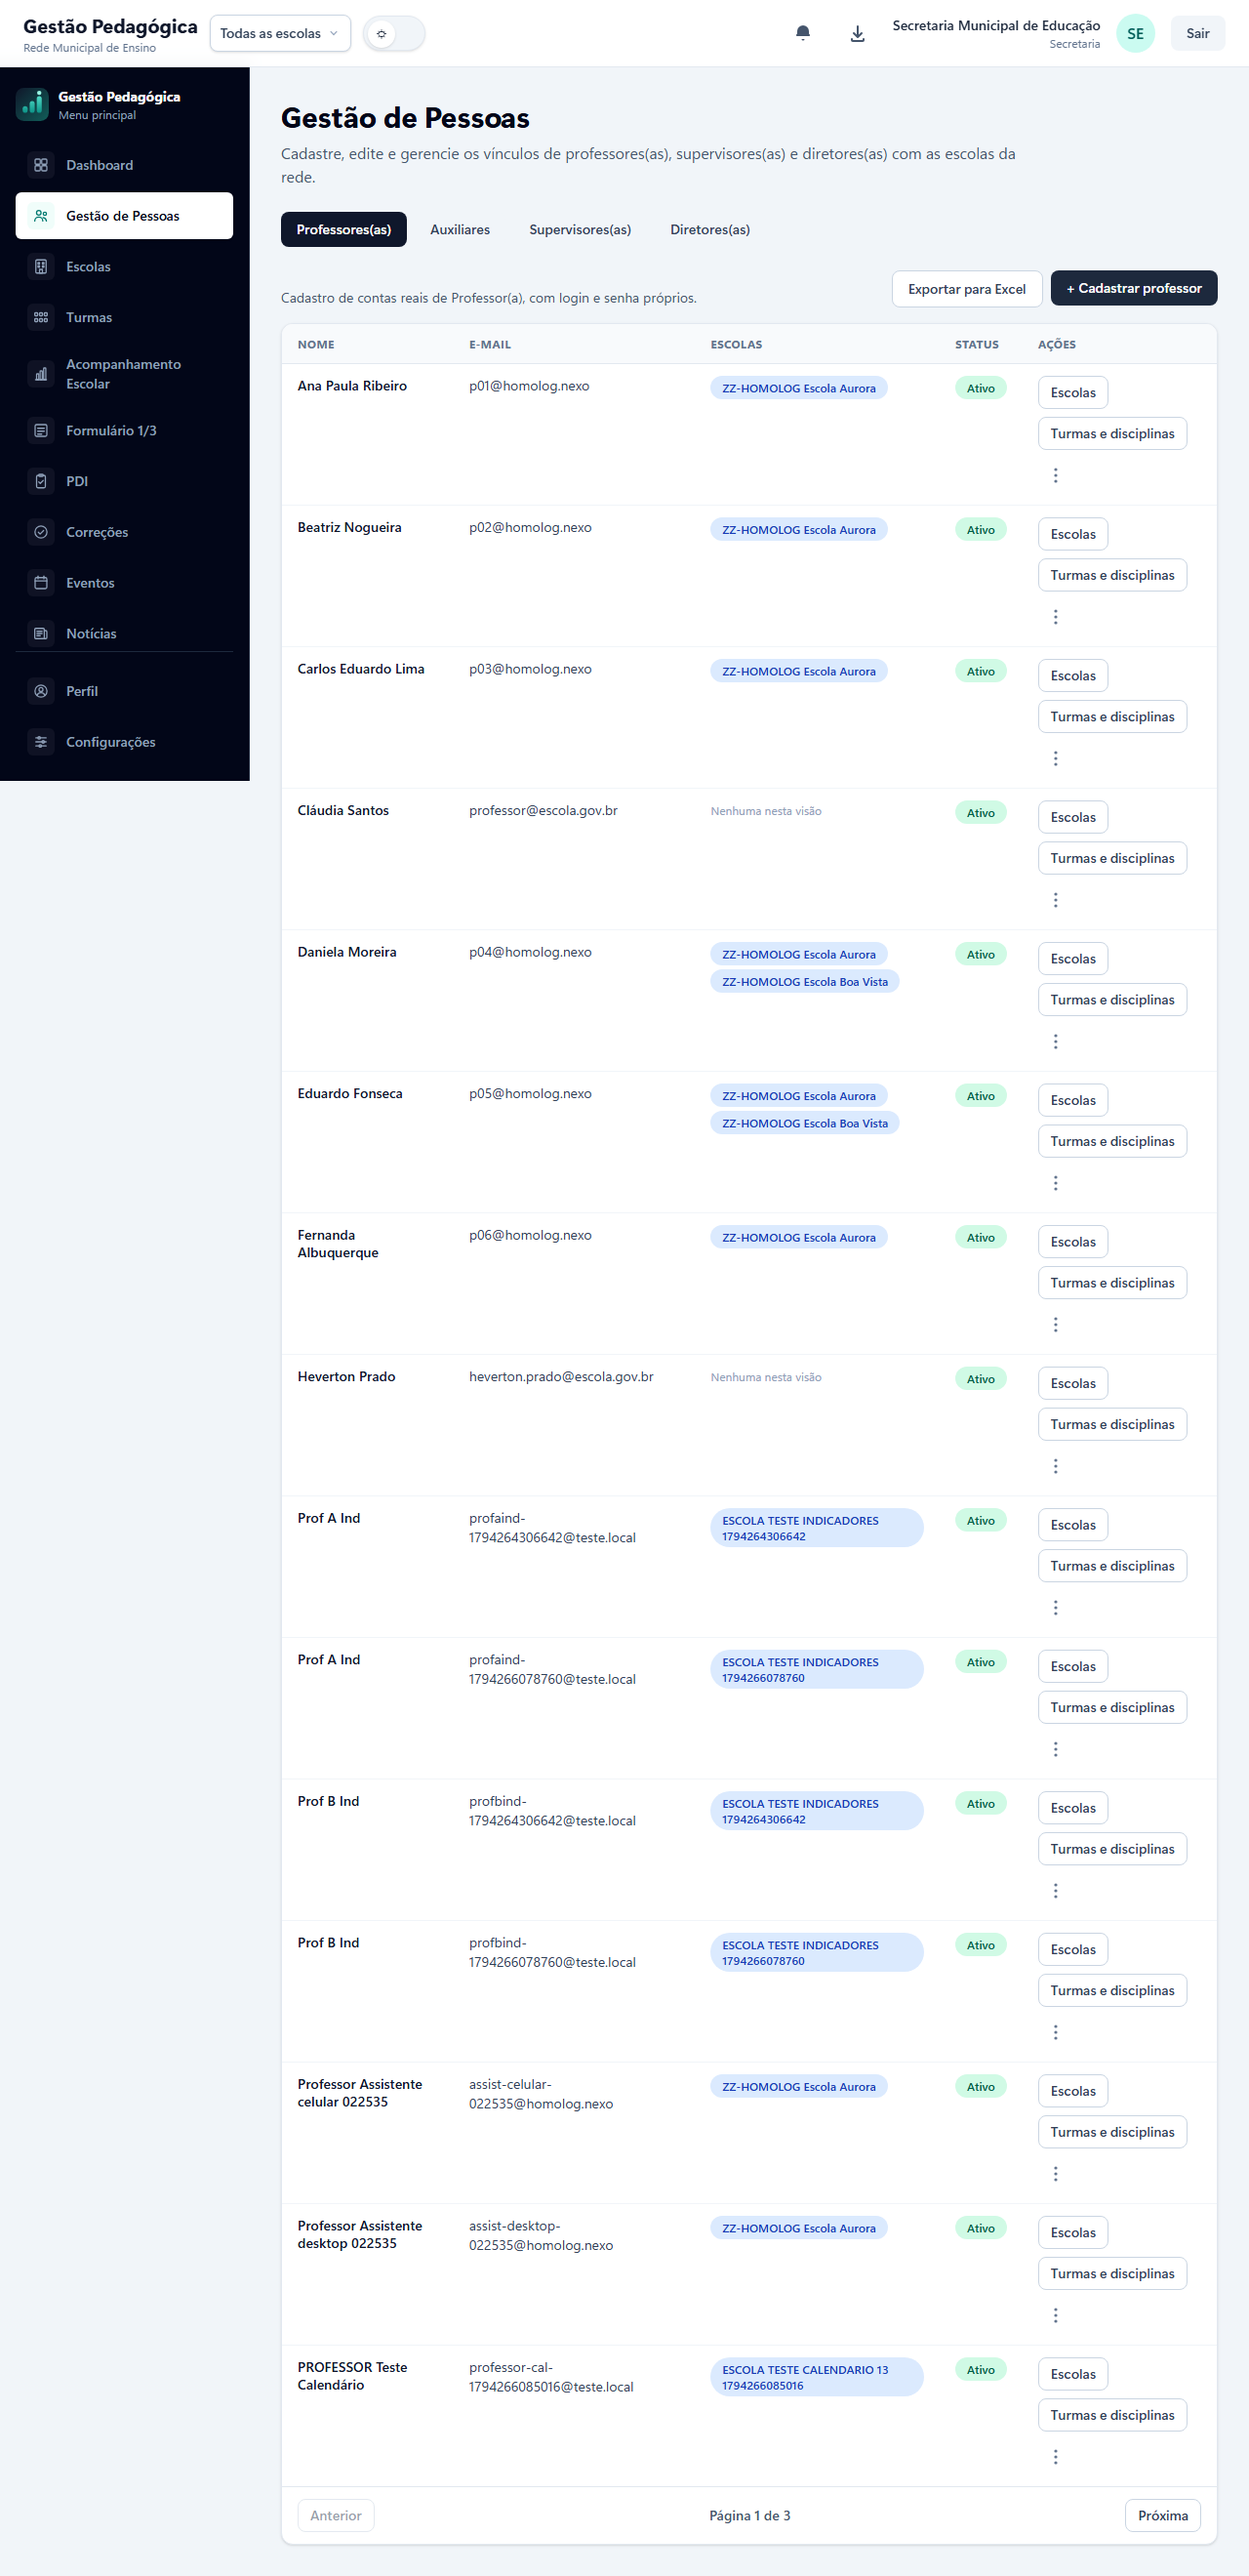
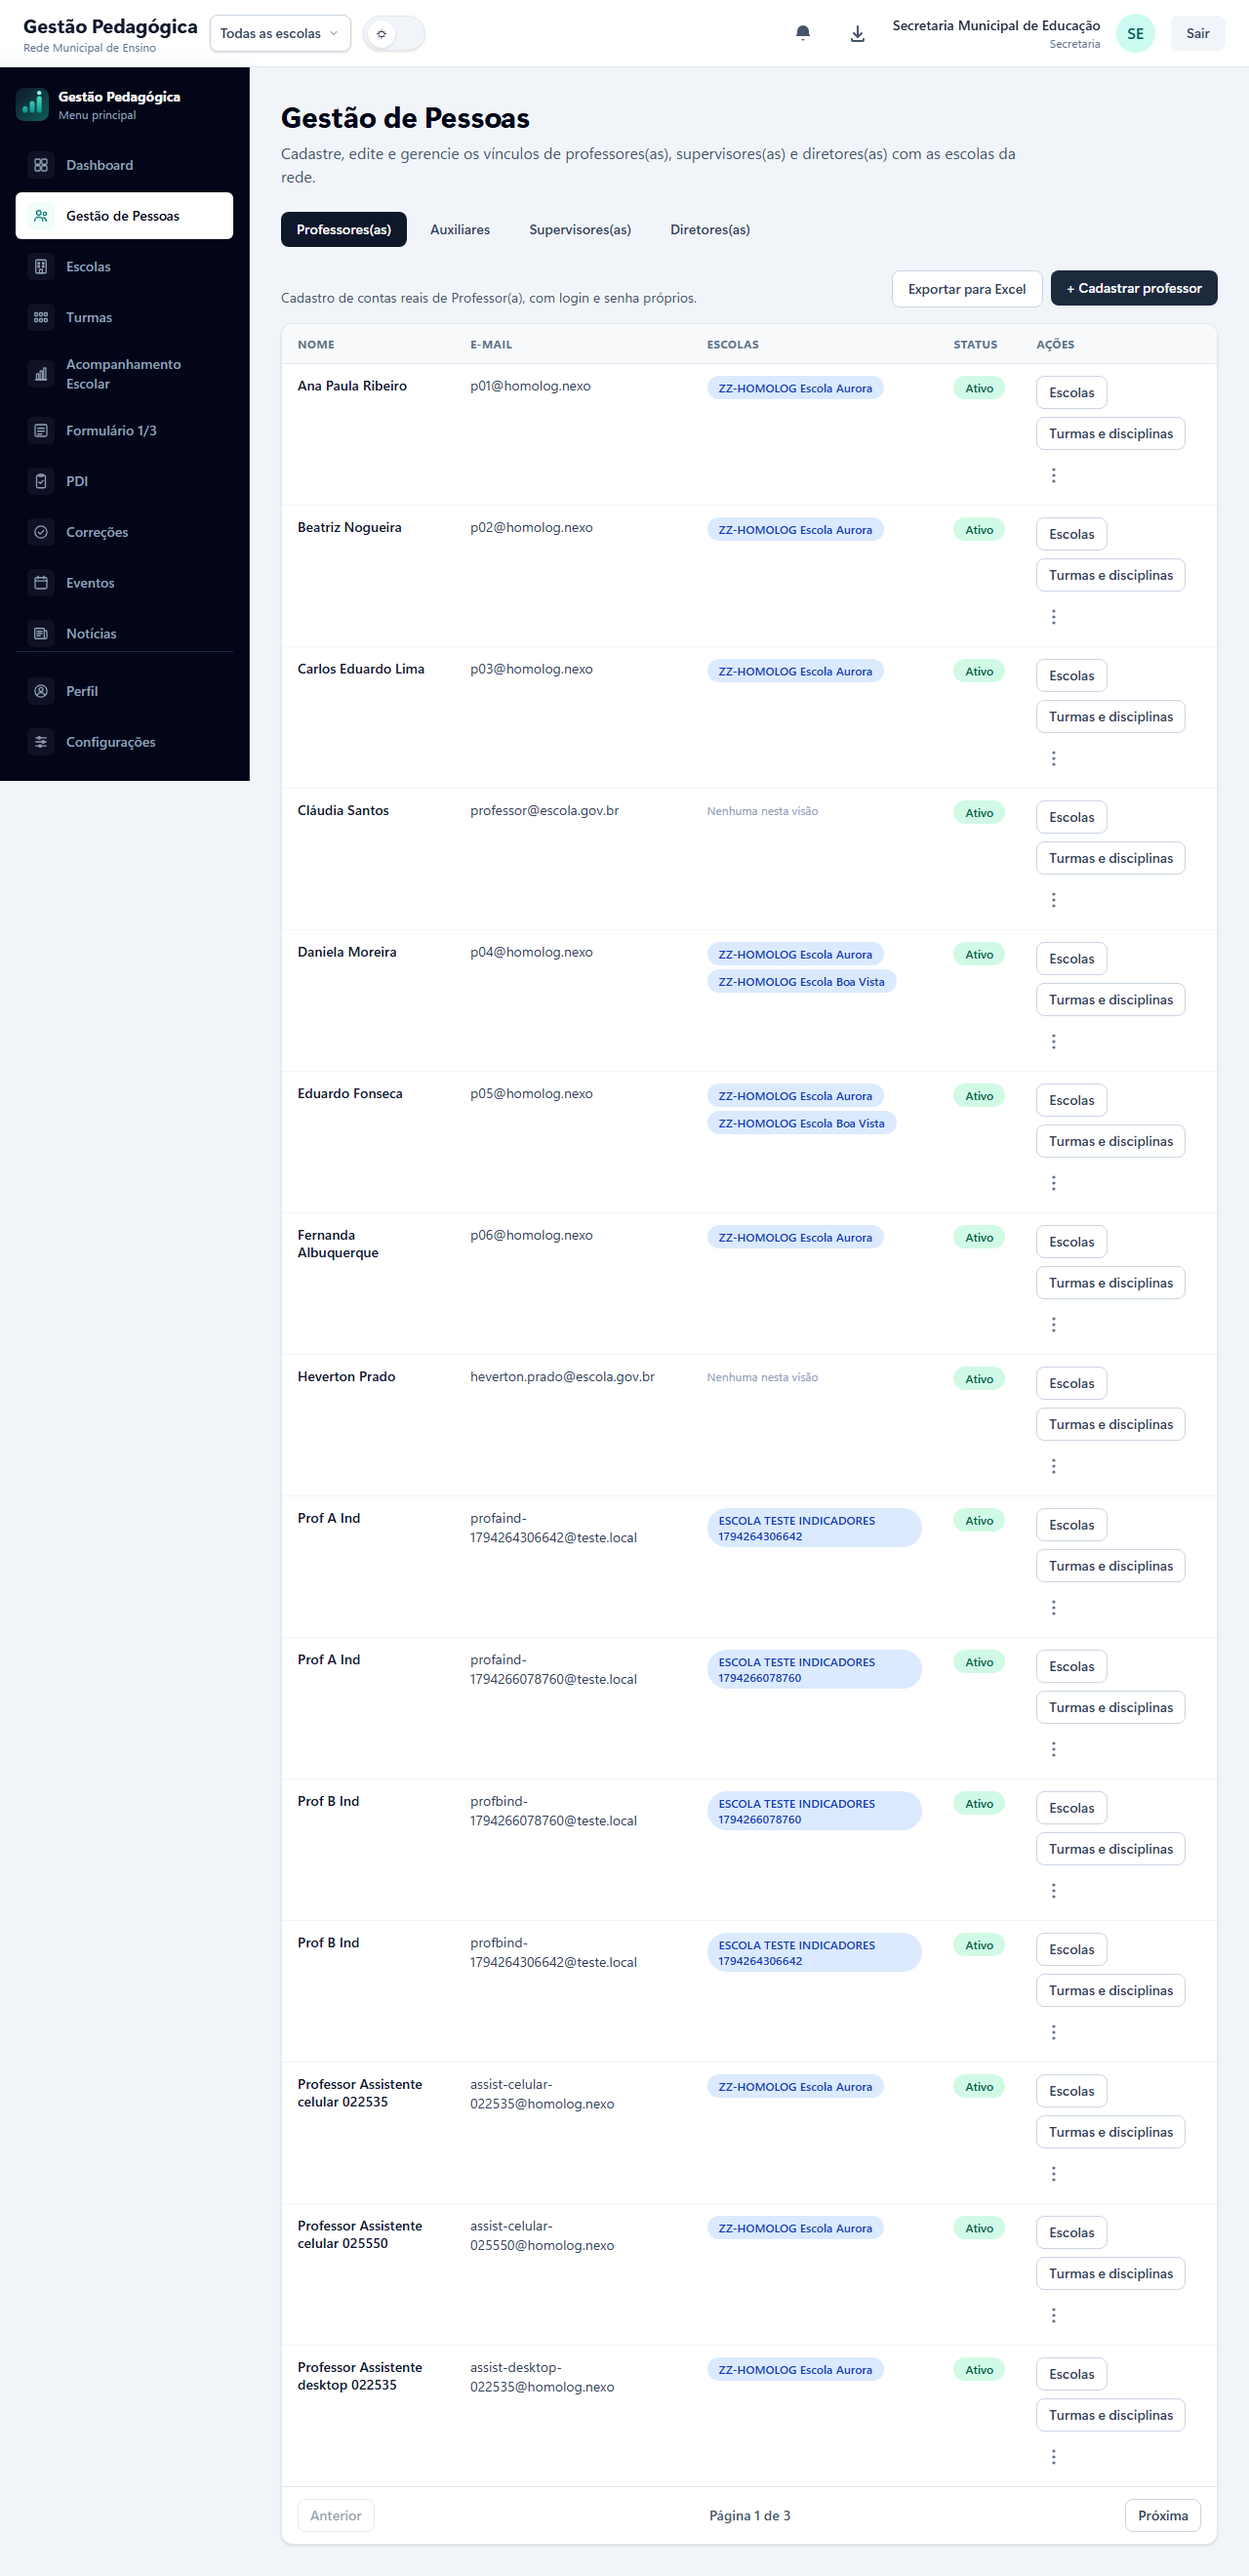
Exportação Excel: arquivo abre na lista de dados; aba Filtros vai para o fim

diff --git a/src/utils/exportarExcel.js b/src/utils/exportarExcel.js
@@ -4,7 +4,7 @@
 //   com "=", "+", "-" ou "@" fica como texto puro na célula (tipo String do xlsx), não é calculado.
 // - Datas só-dia ('YYYY-MM-DD' ou ISO à meia-noite UTC do Postgres @db.Date) usam as partes UTC,
 //   para não "voltar um dia" (lição do DEF-16). Data+hora é convertida para o horário de São Paulo.
-// - Primeira aba "Filtros": quem exportou, quando, e os filtros aplicados na tela.
+// - Abas de dados primeiro (o arquivo abre na lista); última aba "Filtros": quem exportou, quando, filtros.
 // - Cada aba: cabeçalho em negrito, primeira linha congelada, filtro automático, larguras ajustadas.
 
 const FUSO = 'America/Sao_Paulo';
@@ -65,14 +65,6 @@ export async function exportarExcel({ arquivo, filtros = [], usuario, abas }) {
   wb.created = new Date();
   const hoje = hojeSaoPaulo();
 
-  const info = wb.addWorksheet('Filtros');
-  info.columns = [{ width: 28 }, { width: 60 }];
-  info.addRow(['Exportado em', hoje.texto]);
-  if (usuario) info.addRow(['Exportado por', String(usuario)]);
-  filtros.forEach(([rotulo, valor]) => info.addRow([String(rotulo), valor === null || valor === undefined || valor === '' ? 'Todos' : String(valor)]));
-  abas.forEach(aba => info.addRow([`Linhas em "${aba.nome}"`, aba.linhas.length]));
-  info.getColumn(1).font = { bold: true };
-
   for (const aba of abas) {
     const ws = wb.addWorksheet(nomeAba(aba.nome), { views: [{ state: 'frozen', ySplit: 1 }] });
     ws.columns = aba.colunas.map(c => ({ header: c.titulo, width: c.largura ?? Math.max(12, Math.min(50, c.titulo.length + 4)) }));
@@ -89,6 +81,17 @@ export async function exportarExcel({ arquivo, filtros = [], usuario, abas }) {
     cab.alignment = { vertical: 'middle' };
     if (aba.colunas.length) ws.autoFilter = { from: { row: 1, column: 1 }, to: { row: 1, column: aba.colunas.length } };
   }
+
+  // Aba 'Filtros' por ÚLTIMO: o arquivo abre direto na lista (antes abria nos filtros e a pessoa
+  // achava que a planilha estava vazia — os dados ficavam escondidos na segunda aba).
+  const info = wb.addWorksheet('Filtros');
+  info.columns = [{ width: 28 }, { width: 60 }];
+  info.addRow(['Exportado em', hoje.texto]);
+  if (usuario) info.addRow(['Exportado por', String(usuario)]);
+  filtros.forEach(([rotulo, valor]) => info.addRow([String(rotulo), valor === null || valor === undefined || valor === '' ? 'Todos' : String(valor)]));
+  abas.forEach(aba => info.addRow([`Linhas em "${aba.nome}"`, String(aba.linhas.length)]));
+  info.getColumn(1).font = { bold: true };
+  wb.views = [{ activeTab: 0, firstSheet: 0, visibility: 'visible' }];
 
   const buffer = await wb.xlsx.writeBuffer();
   const blob = new Blob([buffer], { type: 'application/vnd.openxmlformats-officedocument.spreadsheetml.sheet' });

diff --git a/src/pages/PdiHomePage.jsx b/src/pages/PdiHomePage.jsx
@@ -209,16 +209,6 @@ const exportarPdi = async ({ activeEscolaId, escolaNome, usuario }) => {
     usuario,
     filtros: [['Escola', activeEscolaId === null ? 'Todas as escolas (do seu acesso)' : escolaNome]],
     abas: [
-      { nome: 'Entrega por escola', linhas: entrega, colunas: [
-        { titulo: 'Escola', valor: i => i.escolaNome, largura: 30 },
-        { titulo: 'Aplicação vigente', valor: i => i.aplicacaoId === null ? 'Sem Aplicação vigente' : (i.aplicacaoNome || `Aplicação #${i.aplicacaoId}`), largura: 28 },
-        { titulo: 'Início', valor: i => i.aplicacaoDataInicio, tipo: 'data' },
-        { titulo: 'Fim', valor: i => i.aplicacaoDataFim, tipo: 'data' },
-        { titulo: 'Fichas esperadas', valor: i => i.totalEsperado, tipo: 'numero' },
-        { titulo: 'Concluídas', valor: i => i.concluidas, tipo: 'numero' },
-        { titulo: 'Em andamento', valor: i => i.emAndamento ?? 0, tipo: 'numero' },
-        { titulo: 'Não iniciadas', valor: i => Math.max(0, i.totalEsperado - i.concluidas - (i.emAndamento ?? 0)), tipo: 'numero' },
-      ] },
       { nome: 'Fichas', linhas: dados.fichas, colunas: [
         ...ident,
         { titulo: 'Disciplina', valor: f => f.disciplinaNome, largura: 20 },
@@ -253,6 +243,16 @@ const exportarPdi = async ({ activeEscolaId, escolaNome, usuario }) => {
         { titulo: 'Pergunta', valor: r => r.pergunta, largura: 50 },
         { titulo: 'Resposta', valor: r => r.resposta, largura: 50 },
         { titulo: 'Complemento', valor: r => r.complemento, largura: 40 },
+      ] },
+      { nome: 'Entrega por escola', linhas: entrega, colunas: [
+        { titulo: 'Escola', valor: i => i.escolaNome, largura: 30 },
+        { titulo: 'Aplicação vigente', valor: i => i.aplicacaoId === null ? 'Sem Aplicação vigente' : (i.aplicacaoNome || `Aplicação #${i.aplicacaoId}`), largura: 28 },
+        { titulo: 'Início', valor: i => i.aplicacaoDataInicio, tipo: 'data' },
+        { titulo: 'Fim', valor: i => i.aplicacaoDataFim, tipo: 'data' },
+        { titulo: 'Fichas esperadas', valor: i => i.totalEsperado, tipo: 'numero' },
+        { titulo: 'Concluídas', valor: i => i.concluidas, tipo: 'numero' },
+        { titulo: 'Em andamento', valor: i => i.emAndamento ?? 0, tipo: 'numero' },
+        { titulo: 'Não iniciadas', valor: i => Math.max(0, i.totalEsperado - i.concluidas - (i.emAndamento ?? 0)), tipo: 'numero' },
       ] },
     ],
   });

diff --git a/src/utils/exportarUmTerco.js b/src/utils/exportarUmTerco.js
@@ -18,18 +18,6 @@ export const exportarUmTerco = async ({ cicloId, filtros = {}, rotulos = [], usu
     usuario,
     filtros: [['Ciclo', `${ciclo.titulo} — ${ciclo.trimestre}º trimestre de ${ciclo.anoLetivo}`], ...rotulos],
     abas: [
-      { nome: 'Resumo', linhas: [resumo], colunas: [
-        { titulo: 'Esperadas', valor: r => r.esperado, tipo: 'numero' },
-        { titulo: 'Concluídas', valor: r => r.concluidas, tipo: 'numero' },
-        { titulo: 'Em andamento', valor: r => r.emAndamento, tipo: 'numero' },
-        { titulo: 'Não iniciadas', valor: r => r.naoIniciadas, tipo: 'numero' },
-        { titulo: 'Entrega (%)', valor: r => r.percentualEntrega, tipo: 'numero' },
-      ] },
-      { nome: 'Cobertura por escola', linhas: dados.porEscola, colunas: [
-        { titulo: 'Escola', valor: e => e.escolaNome, largura: 34 },
-        { titulo: 'Esperadas', valor: e => e.esperado, tipo: 'numero' },
-        { titulo: 'Concluídas', valor: e => e.concluidas, tipo: 'numero' },
-      ] },
       { nome: 'Entregas', linhas: dados.linhas, colunas: [
         ...ident,
         { titulo: 'Escolas', valor: l => [...new Set(l.turmas.map(t => t.escolaNome))].join('; '), largura: 34 },
@@ -46,6 +34,18 @@ export const exportarUmTerco = async ({ cicloId, filtros = {}, rotulos = [], usu
         { titulo: 'Início', valor: c => c.semanaInicio, tipo: 'data' },
         { titulo: 'Fim', valor: c => c.semanaFim, tipo: 'data' },
         { titulo: 'Conteúdo', valor: c => c.texto, largura: 80 },
+      ] },
+      { nome: 'Cobertura por escola', linhas: dados.porEscola, colunas: [
+        { titulo: 'Escola', valor: e => e.escolaNome, largura: 34 },
+        { titulo: 'Esperadas', valor: e => e.esperado, tipo: 'numero' },
+        { titulo: 'Concluídas', valor: e => e.concluidas, tipo: 'numero' },
+      ] },
+      { nome: 'Resumo', linhas: [resumo], colunas: [
+        { titulo: 'Esperadas', valor: r => r.esperado, tipo: 'numero' },
+        { titulo: 'Concluídas', valor: r => r.concluidas, tipo: 'numero' },
+        { titulo: 'Em andamento', valor: r => r.emAndamento, tipo: 'numero' },
+        { titulo: 'Não iniciadas', valor: r => r.naoIniciadas, tipo: 'numero' },
+        { titulo: 'Entrega (%)', valor: r => r.percentualEntrega, tipo: 'numero' },
       ] },
     ],
   });

diff --git a/CLAUDE_CONTEXT.md b/CLAUDE_CONTEXT.md
@@ -2307,3 +2307,10 @@ Por isso, antes de executar qualquer mudança sensível, confirmar o estado real
     - a exportação de Escolas e de indicadores do Dashboard não foi feita;
     - a planilha de Alunos contém o telefone do responsável (dado pessoal: o arquivo deve ser tratado como sigiloso);
     - esta branch saiu da `main` antes do filtro de escola sempre visível (`fix/filtro-escola-sempre-visivel`); pode haver um conflito simples em `PdiPage.jsx` ao juntar.
+- **10/11/2026: ordem das abas na exportação para Excel (branch `feature/exportacao-excel`, só frontend).**
+  - **Reclamação do usuário:** a planilha de Alunos PDI "veio inútil". Na verdade, os dados estavam na 2ª aba e o arquivo abria na aba "Filtros".
+  - **Correções:**
+    - a aba "Filtros" passou a ser a **última**, e o arquivo abre na primeira aba de dados (`src/utils/exportarExcel.js`);
+    - as listas detalhadas vêm primeiro: no PDI, Fichas → Respostas → Perguntas comuns → Entrega por escola; no 1/3, Entregas → Conteúdos → Cobertura por escola → Resumo;
+    - Professores, Turmas e Alunos já começavam pela lista.
+  - **Teste:** `43-exportacao-excel.mjs` ganhou o EXP-G1 (toda exportação abre numa aba de dados com linhas; "Filtros" é a última): **21/21**.
